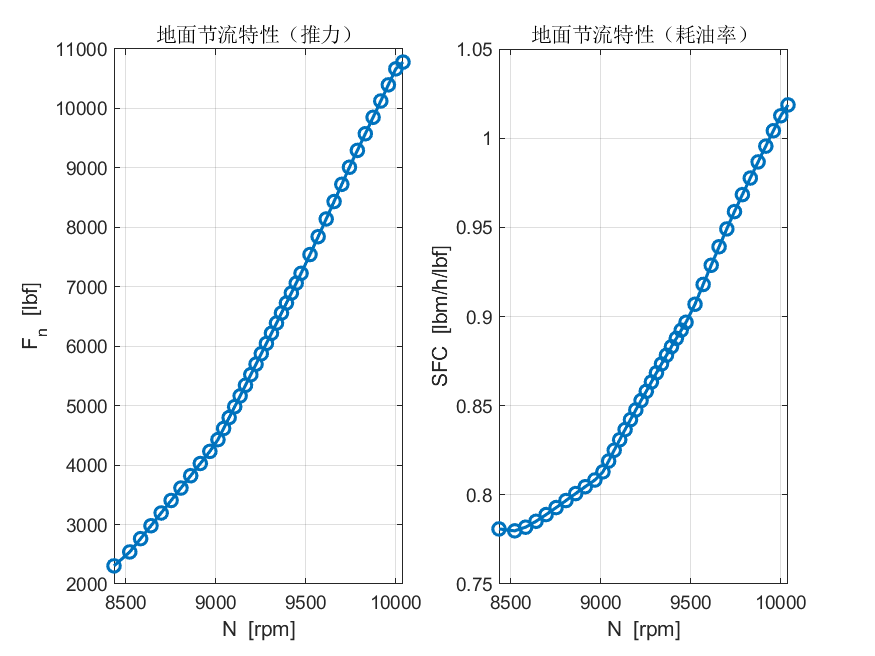
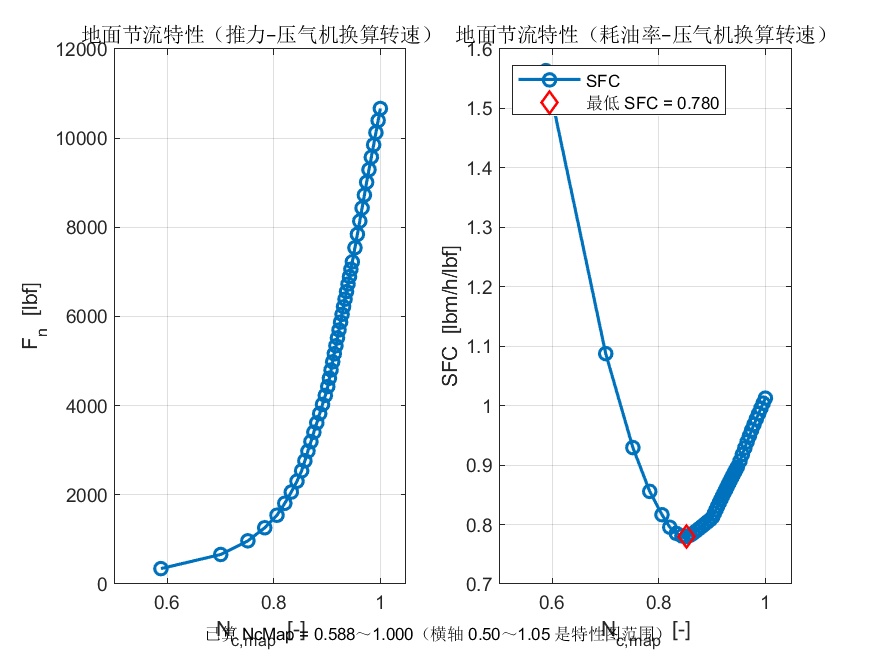
对代码做出更新： 1、使用压气机换算转速作为横坐标，并扩宽了燃油流量的计算下限，使生成的图像能观察到完整规律； 2、除了一般的节流特性曲线外，新增sfc-F曲线，以及其他监测曲线

diff --git a/Example_GasTurbine_SS/run_throttle_char.m b/Example_GasTurbine_SS/run_throttle_char.m
@@ -9,10 +9,12 @@ function results = run_throttle_char(varargin)
 %
 %  扫描顺序（几何与 iDesign 始终冻结）：
 %    1) 先跑通设计点 3.00 pps
-%    2) 用 3.00 的收敛解单独往上探 3.05 pps
-%    3) 回到 3.00 的收敛解，按 0.1 pps 减到 1.80 pps
-%    4) 若 1.80 仍收敛，再按 0.05 pps 往下，直到不收敛
-%    任一步不收敛：在上一点与失败点之间对分；步长小于 dWfMin 则停止下行
+%    2) 从 3.00 按 0.1 pps 减到 1.80 pps
+%    3) 若 1.80 仍收敛，再按 0.05 pps 往下，直到不收敛或碰到 WfMinAbs
+%    任一步不收敛：在上一点与失败点之间对分；步长小于 dWfMin 则停止
+%  注意：单轴涡喷在大状态附近 Wf 降得快、N 降得慢。默认燃油下限 0.15 pps，
+%  不要把它理解成“算到 NcMap=0.5”。图横轴 0.5～1.05 是特性图范围，不是已算到的范围。
+%  图：NcMap–Fn / NcMap–SFC，SFC–总推力，以及 Wf / SM / T4 / R-line 诊断图。结果每次覆盖。
 %
 %  每一档用上一档收敛的 [W; Rline; 涡轮PR; N] 作为 NR 初值。
 %  退出时恢复燃油和 NR_IC，并删除本次临时加上的记录模块；不要保存官方 mdl。
@@ -20,18 +22,16 @@ function results = run_throttle_char(varargin)
     p = inputParser;
     addParameter(p, 'Model', 'GasTurbine_SS_Template', @ischar);
     addParameter(p, 'WfDes', 3.00, @isnumeric);
-    addParameter(p, 'WfUp', 3.05, @isnumeric);
     addParameter(p, 'WfCoarseEnd', 1.80, @isnumeric);
     addParameter(p, 'dWfCoarse', 0.10, @isnumeric);
     addParameter(p, 'dWfFine', 0.05, @isnumeric);
     addParameter(p, 'dWfMin', 0.01, @isnumeric);
-    addParameter(p, 'WfMinAbs', 0.50, @isnumeric);
+    addParameter(p, 'WfMinAbs', 0.15, @isnumeric);
     addParameter(p, 'SaveFig', true, @islogical);
     parse(p, varargin{:});
 
     mdl = p.Results.Model;
     WfDes = p.Results.WfDes;
-    WfUp = p.Results.WfUp;
     WfCoarseEnd = p.Results.WfCoarseEnd;
     dWfCoarse = p.Results.dWfCoarse;
     dWfFine = p.Results.dWfFine;
@@ -56,14 +56,16 @@ function results = run_throttle_char(varargin)
     solverBlk = [mdl '/SS NR Solver w JacobianCalc'];
     Wf0_str   = get_param(wfBlk, 'Value');
     added_blocks = ensure_throttle_logs(mdl); %#ok<NASGU>
-    cleanupObj = onCleanup(@() cleanup_all()); %#ok<NASGU>
+    cu = struct('mdl', mdl, 'wfBlk', wfBlk, 'solverBlk', solverBlk, ...
+        'NR_IC0', NR_IC0, 'Wf0_str', Wf0_str);
+    cleanupObj = onCleanup(@() restore_throttle_cleanup(cu)); %#ok<NASGU>
 
     results = empty_results();
     x_next = NR_IC0;
 
     fprintf('\n=== 地面节流扫描 (H=0, MN=0, iDesign=2) ===\n');
-    fprintf('%6s  %8s  %8s  %10s  %8s  %s\n', ...
-        'Wf', 'N', 'Fn', 'SFC', 'SM', 'status');
+    fprintf('%6s  %8s  %10s  %8s  %10s  %8s  %s\n', ...
+        'Wf', 'N', 'NcMap', 'Fn', 'SFC', 'SM', 'status');
 
     % --- 1) 设计点 ---
     fprintf('-- 1) 设计点 %.2f pps --\n', WfDes);
@@ -72,40 +74,47 @@ function results = run_throttle_char(varargin)
         error('设计点 %.2f pps 未收敛，停止扫描。', WfDes);
     end
 
-    % --- 2) 单独往上探，探完仍用设计点解往下走 ---
-    fprintf('-- 2) 往上探 %.2f pps（初值来自 %.2f）--\n', WfUp, WfDes);
-    [results, ~, okUp] = run_and_store(results, WfUp, x_des);
-    if ~okUp
-        fprintf('    往上探未收敛，设计点已靠近高端。\n');
-    end
-    x_next = x_des;
-    Wf_ok = WfDes;
-
-    % --- 3) 从设计点按 0.1 pps 走向 1.80；失败则对分 ---
-    fprintf('-- 3) 从 %.2f 按 %.2f pps 走向 %.2f，失败则对分 --\n', ...
+    % --- 2) 从设计点按 0.1 pps 走向 1.80；失败则对分 ---
+    fprintf('-- 2) 从 %.2f 按 %.2f pps 减到 %.2f，失败则对分 --\n', ...
         WfDes, dWfCoarse, WfCoarseEnd);
     [results, x_next, Wf_ok, reached_1p80] = sweep_down( ...
-        results, Wf_ok, x_next, dWfCoarse, WfCoarseEnd, false, dWfMin);
+        results, WfDes, x_des, dWfCoarse, WfCoarseEnd, false, dWfMin);
 
-    % --- 4) 到达 1.80 后再按 0.05 pps 往下直到对分也无法前进 ---
+    % --- 3) 到达 1.80 后再按 0.05 pps 往下直到对分也无法前进 ---
     if reached_1p80
-        fprintf('-- 4) 已到达 %.2f pps，改 %.2f pps 继续往下 --\n', ...
+        fprintf('-- 3) 已到达 %.2f pps，改 %.2f pps 继续往下 --\n', ...
             WfCoarseEnd, dWfFine);
         [results, ~, Wf_ok] = sweep_down( ...
             results, Wf_ok, x_next, dWfFine, WfMinAbs, true, dWfMin);
         fprintf('    下行结束，最后成功点 Wf = %.2f pps。\n', Wf_ok);
     else
-        fprintf('-- 4) 未能收敛到 %.2f pps，最后成功点 Wf = %.2f，不再进入 0.05 段。\n', ...
+        fprintf('-- 3) 未能收敛到 %.2f pps，最后成功点 Wf = %.2f，不再进入 0.05 段。\n', ...
             WfCoarseEnd, Wf_ok);
     end
 
+    print_scan_summary(results, WfMinAbs);
+
     outdir = fileparts(mfilename('fullpath'));
-    save(fullfile(outdir, 'throttle_char_results.mat'), 'results');
-    plot_throttle(results);
-    if p.Results.SaveFig
-        figfile = fullfile(outdir, 'throttle_char.png');
-        saveas(gcf, figfile);
-        fprintf('图已保存: %s\n', figfile);
+    matfile = fullfile(outdir, 'throttle_char_results.mat');
+    figNc   = fullfile(outdir, 'throttle_char.png');
+    figSFC  = fullfile(outdir, 'throttle_char_sfc_vs_fn.png');
+    figOps  = fullfile(outdir, 'throttle_char_ops.png');
+    overwrite_file(matfile);
+    save(matfile, 'results');
+    fprintf('数据已覆盖保存: %s\n', matfile);
+
+    hFigs = plot_throttle(results);
+    if p.Results.SaveFig && ~isempty(hFigs)
+        overwrite_file(figNc);
+        overwrite_file(figSFC);
+        saveas(hFigs(1), figNc);
+        saveas(hFigs(2), figSFC);
+        fprintf('图已覆盖保存:\n  %s\n  %s\n', figNc, figSFC);
+        if numel(hFigs) >= 3
+            overwrite_file(figOps);
+            saveas(hFigs(3), figOps);
+            fprintf('  %s\n', figOps);
+        end
     end
 
     function [res, x_out, Wf_out, reached] = sweep_down(res, Wf_ok1, x_ok, dNom, Wf_bound, until_fail, dMin)
@@ -165,8 +174,9 @@ function results = run_throttle_char(varargin)
         else
             flag = 'NOT CONVERGED';
         end
-        fprintf('%6.2f  %8.1f  %8.1f  %10.4f  %8.2f  %s\n', ...
-            row.Wf_pps, row.N_rpm, row.Fn_lbf, row.SFC_pph_lbf, row.SM_pct, flag);
+        fprintf('%6.2f  %8.1f  %10.4f  %8.1f  %10.4f  %8.2f  %s\n', ...
+            row.Wf_pps, row.N_rpm, row.NcMap, row.Fn_lbf, row.SFC_pph_lbf, ...
+            row.SM_pct, flag);
     end
 
     function [row, x_out, ok] = run_one_point(Wf, x_ic)
@@ -213,6 +223,13 @@ function results = run_throttle_char(varargin)
             row.PR_comp  = last_num(Cdat, 'PR');
             row.SM_pct   = last_num(Cdat, 'SMavail');
             row.Nc       = last_num(Cdat, 'Nc');
+            row.NcMap    = last_num(Cdat, 'NcMap');
+            if ~isfinite(row.NcMap)
+                sNc = last_num(Cdat, 's_C_Nc');
+                if isfinite(sNc) && sNc ~= 0 && isfinite(row.Nc)
+                    row.NcMap = row.Nc / sNc;
+                end
+            end
             row.Tt4_R    = last_num(s4, 'Tt');
             if ok
                 x_out = x(:);
@@ -224,21 +241,24 @@ function results = run_throttle_char(varargin)
             ok = false;
         end
     end
+end
 
-    function cleanup_all()
-        try
-            MWS.Solve.NR_IC = NR_IC0;
-            assignin('base', 'MWS', MWS);
-            if bdIsLoaded(mdl)
-                set_param(wfBlk, 'Value', Wf0_str);
-                set_param(solverBlk, 'SNR_IC_M', 'MWS.Solve.NR_IC');
-                remove_throttle_logs(mdl);
-            end
-            fprintf(['已恢复燃油与 NR_IC，并删除临时记录模块。', ...
-                '请不要保存 GasTurbine_SS_Template.mdl。\n']);
-        catch ME
-            warning('THROTTLE:Cleanup', '退出清理未完全成功: %s', ME.message);
+function restore_throttle_cleanup(cu)
+    try
+        if evalin('base', 'exist(''MWS'',''var'')') == 1
+            MWSb = evalin('base', 'MWS');
+            MWSb.Solve.NR_IC = cu.NR_IC0;
+            assignin('base', 'MWS', MWSb);
         end
+        if bdIsLoaded(cu.mdl)
+            set_param(cu.wfBlk, 'Value', cu.Wf0_str);
+            set_param(cu.solverBlk, 'SNR_IC_M', 'MWS.Solve.NR_IC');
+            remove_throttle_logs(cu.mdl);
+        end
+        fprintf(['已恢复燃油与 NR_IC，并删除临时记录模块。', ...
+            '请不要保存 GasTurbine_SS_Template.mdl。\n']);
+    catch ME
+        warning('THROTTLE:Cleanup', '退出清理未完全成功: %s', ME.message);
     end
 end
 
@@ -246,7 +266,7 @@ function r = empty_results()
     r = struct('Wf_pps', [], 'Wf_kgs', [], 'N_rpm', [], 'Fn_lbf', [], ...
         'Fn_N', [], 'SFC_pph_lbf', [], 'SFC_kgN_s', [], 'W_pps', [], ...
         'Rline', [], 'PR_turb', [], 'PR_comp', [], 'SM_pct', [], ...
-        'Nc', [], 'Tt4_R', [], 'converged', false(0, 1), 'NR_X', zeros(0, 4));
+        'Nc', [], 'NcMap', [], 'Tt4_R', [], 'converged', false(0, 1), 'NR_X', zeros(0, 4));
 end
 
 function row = blank_row(Wf)
@@ -263,6 +283,7 @@ function row = blank_row(Wf)
     row.PR_comp = nan;
     row.SM_pct = nan;
     row.Nc = nan;
+    row.NcMap = nan;
     row.Tt4_R = nan;
     row.converged = false;
     row.NR_X = nan(1, 4);
@@ -282,6 +303,7 @@ function r = append_result(r, row)
     r.PR_comp(end+1, 1) = row.PR_comp;
     r.SM_pct(end+1, 1) = row.SM_pct;
     r.Nc(end+1, 1) = row.Nc;
+    r.NcMap(end+1, 1) = row.NcMap;
     r.Tt4_R(end+1, 1) = row.Tt4_R;
     r.converged(end+1, 1) = row.converged;
     r.NR_X(end+1, :) = row.NR_X;
@@ -548,32 +570,147 @@ function d = ts_data(ts)
     end
 end
 
-function plot_throttle(results)
+function overwrite_file(fpath)
+    if exist(fpath, 'file')
+        delete(fpath);
+    end
+end
+
+function print_scan_summary(results, WfMinAbs)
     ok = results.converged;
+    nAll = numel(results.Wf_pps);
+    nOk = nnz(ok);
+    fprintf('\n=== 扫描小结 ===\n');
+    fprintf('收敛 %d / %d 点。\n', nOk, nAll);
+    if nOk < 1
+        return
+    end
+    [ncMin, k] = min(results.NcMap(ok));
+    idx = find(ok);
+    i = idx(k);
+    [sfcMin, kS] = min(results.SFC_pph_lbf(ok));
+    j = idx(kS);
+    fprintf(['最低 NcMap = %.4f  （N = %.1f rpm，Wf = %.2f pps，', ...
+        'SM = %.1f %%，Rline = %.3f）\n'], ...
+        ncMin, results.N_rpm(i), results.Wf_pps(i), ...
+        results.SM_pct(i), results.Rline(i));
+    fprintf('最低 SFC = %.4f，出现在 NcMap = %.4f，Fn = %.1f lbf\n', ...
+        sfcMin, results.NcMap(j), results.Fn_lbf(j));
+    hitFloor = results.converged(i) && (results.Wf_pps(i) <= WfMinAbs + 1e-6);
+    if nOk == nAll && hitFloor
+        fprintf(['停止原因：碰到脚本燃油下限 %.2f pps，这一档仍然收敛。', ...
+            '不是牛顿法失败，也不是喘振（当前 SM = %.1f %%）。\n', ...
+            '大状态附近燃油降得快、转速降得慢；要看到 NcMap=0.8，需要继续减油。\n'], ...
+            WfMinAbs, results.SM_pct(i));
+    elseif nOk < nAll
+        fprintf(['停止原因：Wf = %.2f pps 未能收敛，上一成功点 Wf = %.2f pps。\n'], ...
+            results.Wf_pps(find(~ok, 1, 'last')), results.Wf_pps(i));
+    end
+end
+
+function hFigs = plot_throttle(results)
+    ok = results.converged;
+    hFigs = gobjects(0);
     if ~any(ok)
         warning('THROTTLE:NoPoints', '没有收敛点，无法画节流特性。');
         return
     end
-    N = results.N_rpm(ok);
+    NcMap = results.NcMap(ok);
     Fn = results.Fn_lbf(ok);
     sfc = results.SFC_pph_lbf(ok);
-    [N, idx] = sort(N);
+    Wf = results.Wf_pps(ok);
+    SM = results.SM_pct(ok);
+    Rl = results.Rline(ok);
+    T4K = results.Tt4_R(ok) * 5/9;
+    if all(~isfinite(NcMap)) && any(isfinite(results.Nc(ok)))
+        % 旧结果只有 Nc[rpm] 时：本机 s_Nc=10000，NcMap = Nc/s_Nc
+        NcMap = results.Nc(ok) / 10000;
+    end
+    if all(~isfinite(NcMap))
+        warning('THROTTLE:NoNcMap', '压气机图换算转速 NcMap 无效，无法按 0.5～1.05 作图。');
+        return
+    end
+    xlab = 'N_{c,map}  [-]';
+    tNc = '压气机换算转速';
+    [NcMap, idx] = sort(NcMap);
     Fn = Fn(idx);
     sfc = sfc(idx);
+    Wf = Wf(idx);
+    SM = SM(idx);
+    Rl = Rl(idx);
+    T4K = T4K(idx);
+    [sfcMin, iS] = min(sfc);
+    xmax = max(1.05, max(NcMap));
+    note = sprintf('已算 NcMap = %.3f～%.3f（横轴 0.50～1.05 是特性图范围）', ...
+        min(NcMap), max(NcMap));
 
-    figure('Name', 'Throttle characteristic', 'Color', 'w');
+    h1 = figure('Name', 'Throttle vs NcMap', 'Color', 'w');
 
     subplot(1, 2, 1);
-    plot(N, Fn, 'o-', 'LineWidth', 1.5);
+    plot(NcMap, Fn, 'o-', 'LineWidth', 1.5);
     grid on
-    xlabel('N  [rpm]');
+    xlabel(xlab);
     ylabel('F_n  [lbf]');
-    title('地面节流特性（推力）');
+    xlim([0.5 xmax]);
+    title(['地面节流特性（推力–' tNc '）']);
 
     subplot(1, 2, 2);
-    plot(N, sfc, 'o-', 'LineWidth', 1.5);
+    plot(NcMap, sfc, 'o-', 'LineWidth', 1.5);
+    hold on
+    plot(NcMap(iS), sfcMin, 'rd', 'MarkerSize', 8, 'LineWidth', 1.2);
     grid on
-    xlabel('N  [rpm]');
+    xlabel(xlab);
     ylabel('SFC  [lbm/h/lbf]');
-    title('地面节流特性（耗油率）');
+    xlim([0.5 xmax]);
+    title(['地面节流特性（耗油率–' tNc '）']);
+    legend({'SFC', sprintf('最低 SFC = %.3f', sfcMin)}, 'Location', 'northwest');
+    annotation('textbox', [0.12 0.01 0.76 0.05], 'String', note, ...
+        'EdgeColor', 'none', 'HorizontalAlignment', 'center', 'FontSize', 8);
+
+    [Fn2, idx2] = sort(Fn);
+    sfc2 = sfc(idx2);
+    h2 = figure('Name', 'SFC vs thrust', 'Color', 'w');
+    plot(Fn2, sfc2, 'o-', 'LineWidth', 1.5);
+    hold on
+    plot(Fn(iS), sfcMin, 'rd', 'MarkerSize', 8, 'LineWidth', 1.2);
+    grid on
+    xlabel('F_n  [lbf]  （总推力）');
+    ylabel('SFC  [lbm/h/lbf]');
+    title('地面节流特性（耗油率–总推力）');
+    legend({'SFC', sprintf('最低 SFC = %.3f', sfcMin)}, 'Location', 'northwest');
+
+    h3 = figure('Name', 'Throttle operating line', 'Color', 'w');
+    subplot(2, 2, 1);
+    plot(NcMap, Wf, 'o-', 'LineWidth', 1.5);
+    grid on
+    xlabel(xlab);
+    ylabel('W_f  [pps]');
+    xlim([0.5 xmax]);
+    title('燃油–换算转速（大状态附近很陡）');
+
+    subplot(2, 2, 2);
+    plot(NcMap, SM, 'o-', 'LineWidth', 1.5);
+    grid on
+    xlabel(xlab);
+    ylabel('SM  [%]');
+    xlim([0.5 xmax]);
+    title('压气机喘振裕度');
+
+    subplot(2, 2, 3);
+    plot(NcMap, T4K, 'o-', 'LineWidth', 1.5);
+    grid on
+    xlabel(xlab);
+    ylabel('T_4  [K]');
+    xlim([0.5 xmax]);
+    title('涡轮前温度');
+
+    subplot(2, 2, 4);
+    plot(NcMap, Rl, 'o-', 'LineWidth', 1.5);
+    grid on
+    xlabel(xlab);
+    ylabel('R-line  [-]');
+    xlim([0.5 xmax]);
+    title('压气机 R-line（增大表示离开喘振线）');
+
+    hFigs = [h1, h2, h3];
 end
